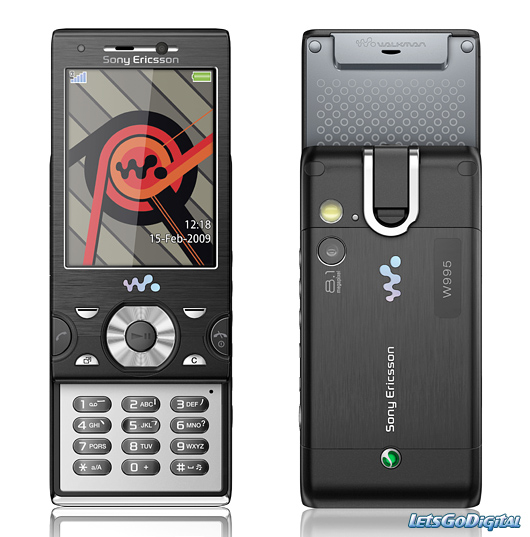
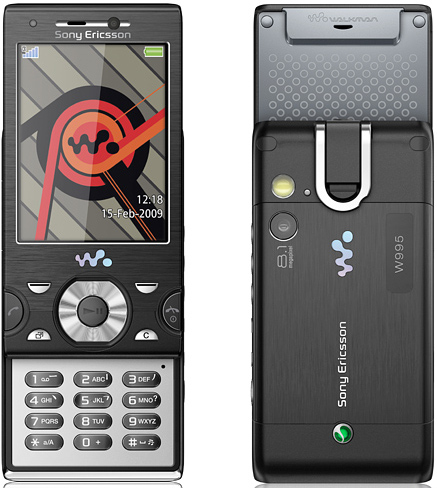
Les produits

diff --git a/css/style.css b/css/style.css
@@ -116,7 +116,7 @@ p {
 	margin:0;
 	padding:10px 15px 5px;
 	width:95%;
-        height:100em;
+    height:50em;
 }
 
 .texte .spec a {
@@ -127,11 +127,12 @@ p {
 }
 
 .texte img {
-	position: relative;
-	width: 100px;
-	height:100px;
+	position: relative;	
+	/* 450*859*/
+	width: 95px; 
+	height:180px;
 	float: left;
-        display: block;
+    display: block;
 }
 
 .texte form {
@@ -204,6 +205,27 @@ p {
 /*********************************************/
 /*********************************************/
 
+div#col_gauche {
+	float: left;
+    width: 10%;
+    background: #F5F5DC ;
+}
+
+div#col_prod {
+	float:right;
+	width: 88%;
+}
+
+div.col_img {
+	float: left;
+	width: 15%;
+}
+
+div.col_desc {
+	float: right;
+	width: 80%;
+}
+
 #lean_overlay {
     position: fixed;
     z-index:100;
@@ -224,6 +246,7 @@ li, ol {
         float: left;
         margin: 0;
         padding: 0;
+        width:18%;
 }
 
 ol li {
@@ -231,22 +254,29 @@ ol li {
 	margin: 0em 0em 0em 0em;
 	line-height: 1.5em;
 	margin-top: 20px;
-        /* Bordures arrondies dans les coins */
 }
 
 ol li ol {
 	width: 100%;
-	/*height: 7em;*/
 	font-size: 0.8em;
 	border: none;
 	margin: 0;
 }
 
-input.btn_voir_prod input.btn_ajout_prod {
+ol li ol p {
+	font-weight: bold;
+	
+	width:100em;
+	float:center;
+}
+
+button.btn_voir_prod , button.btn_ajout_prod {
 	display: block;
 	padding: 0em 0em 0em 1em;
 	font-size: 1.1em;
 	font-weight: bold;
+	width: 32px;
+	height: 32px;
 }
 
 /*********************************************/

diff --git a/web/js/produits.js b/web/js/produits.js
@@ -1,14 +1,23 @@
 $(document).ready(function(){
   
   $('.img_prod').click(function(){
-      window.open(this.src, this.alt, config='height=400, width=400');
+      window.open(this.src, this.alt, config='height=1000, width=1000');
   })
-  /*
-  $('.img_prod').elevateZoom();
-  */
+
+  $('.col_img > img').elevateZoom();   
+  
   $('.btn_voir_prod').click(function(){
-    var source = $('.img_prod').src;
-    window.open(source, " ", config='height=400, width=400');
+    var path = $(this).attr("data-path");
+    window.open(path, "_newtab", config='height=400, width=400, ');
+  })
+
+  $('select').change(function () {
+    //var str = "";
+    $("select option:selected").each(function () {
+      $("#test").text($(this).val());
+      //str += $(this).val() + " ";
+      //str += $(this).text() + " ";
+    });
   })
   
 })

diff --git a/src/Pweb/AccueilBundle/DataFixtures/ORM/Produits.php b/src/Pweb/AccueilBundle/DataFixtures/ORM/Produits.php
@@ -20,7 +20,7 @@ class Produits extends AbstractFixture implements OrderedFixtureInterface{
       $prod->setDescription("Une des dernières trouvailles de samsungs");
       $prod->setPrix(300);
       $prod->setPoids(132);
-      $prod->setImage("/Pweb/images/samsung-galaxy-s3.jpg");
+      $prod->setImage("/Pweb/images/samsung-galaxy-s3.png");
       
       $cat = $manager->getRepository("PwebAccueilBundle:Categorie")->findOneBy(array('libelleCat' => "smartphone"));
       $marque = $manager->getRepository("PwebAccueilBundle:Marque")->findOneBy(array('libelleMar' => "Samsung"));
@@ -35,7 +35,7 @@ class Produits extends AbstractFixture implements OrderedFixtureInterface{
       $prod->setDescription("Une des dernières trouvailles de sony");
       $prod->setPrix(150);
       $prod->setPoids(104);
-      $prod->setImage("/Pweb/images/sony-ericsson-w995.jpg");
+      $prod->setImage("/Pweb/images/sony-ericsson-w995-black.png");
       
       $cat = $manager->getRepository("PwebAccueilBundle:Categorie")->findOneBy(array('libelleCat' => "portable"));
       $marque = $manager->getRepository("PwebAccueilBundle:Marque")->findOneBy(array('libelleMar' => "Sony Ericsson"));
@@ -50,7 +50,7 @@ class Produits extends AbstractFixture implements OrderedFixtureInterface{
       $prod->setDescription("Une des dernières trouvailles de microsoft");
       $prod->setPrix(250);
       $prod->setPoids(185);
-      $prod->setImage("/Pweb/images/nokia-lumia-920-yellow.jpg");
+      $prod->setImage("/Pweb/images/nokia-lumia-920-yellow.png");
       
       $cat = $manager->getRepository("PwebAccueilBundle:Categorie")->findOneBy(array('libelleCat' => "smartphone"));
       $marque = $manager->getRepository("PwebAccueilBundle:Marque")->findOneBy(array('libelleMar' => "Nokia"));
@@ -65,7 +65,7 @@ class Produits extends AbstractFixture implements OrderedFixtureInterface{
       $prod->setDescription("Une des dernières trouvailles d'Apple");
       $prod->setPrix(500);
       $prod->setPoids(500);
-      $prod->setImage("/Pweb/images/ipad-5.jpg");
+      $prod->setImage("/Pweb/images/ipad-5.png");
       
       $cat = $manager->getRepository("PwebAccueilBundle:Categorie")->findOneBy(array('libelleCat' => "tablette"));
       $marque = $manager->getRepository("PwebAccueilBundle:Marque")->findOneBy(array('libelleMar' => "Apple"));
@@ -73,8 +73,6 @@ class Produits extends AbstractFixture implements OrderedFixtureInterface{
 
       $cat = $manager->getRepository("PwebAccueilBundle:Categorie")->findOneBy(array('libelleCat' => "tablette"));
       $marque = $manager->getRepository("PwebAccueilBundle:Marque")->findOneBy(array('libelleMar' => "Apple"));
-      
-      $prod->setImage($image);
 
       $prod->setCategorie($cat);
       $prod->setMarque($marque);
@@ -86,12 +84,7 @@ class Produits extends AbstractFixture implements OrderedFixtureInterface{
       $prod->setDescription("Une des dernières trouvailles d'HTC");
       $prod->setPrix(300);
       $prod->setPoids(143);
-      $prod->setImage("/Pweb/images/htc-one.jpg");
-
-      $image = new Image();
-      $image->setUrl("/Pweb/images/htc-one.jpg");
-      $image->setAlt("HTC One");
-      $manager->persist($image);
+      $prod->setImage("/Pweb/images/htc-one.png");
 
       $cat = $manager->getRepository("PwebAccueilBundle:Categorie")->findOneBy(array('libelleCat' => "smartphone"));
       $marque = $manager->getRepository("PwebAccueilBundle:Marque")->findOneBy(array('libelleMar' => "HTC"));

diff --git a/src/Pweb/AccueilBundle/Controller/ProduitsController.php b/src/Pweb/AccueilBundle/Controller/ProduitsController.php
@@ -8,13 +8,23 @@ class ProduitsController extends Controller
 {
 
 	public function indexAction()
-  {
-    $em = $this->getDoctrine()->getEntityManager();
-    
-    $prod = $em->getRepository("PwebAccueilBundle:Produit")->findAll();
-    //$prod = $em->getRepository("PwebAccueilBundle:Produit")->findOneBy(array('libelleProd' => "Samsung Galaxy S3"));
-    
-    return $this->render('PwebAccueilBundle:Produits:index.html.twig', array('prod' => $prod));
+  	{
+	    $em = $this->getDoctrine()->getEntityManager();
+	    
+	    $prod = $em->getRepository("PwebAccueilBundle:Produit")->findAll();
+	    //$prod = $em->getRepository("PwebAccueilBundle:Produit")->findOneBy(array('libelleProd' => "Samsung Galaxy S3"));
+	    $marques = $em->getRepository('PwebAccueilBundle:Marque')->findBy(array(), array('libelleMar'=>'asc'));
+	    $cat = $em->getRepository("PwebAccueilBundle:Categorie")->findBy(array(), array('libelleCat'=>'asc'));
+
+	    return $this->render('PwebAccueilBundle:Produits:index.html.twig', array('prod' => $prod, 'marque' => $marques, 'cat' => $cat));
+	}
+
+	public function showInfoAction($idProd)
+	{
+		$em = $this->getDoctrine()->getEntityManager();
+		$prod = $em->getRepository("PwebAccueilBundle:Produit")->findOneBy(array('id' => $idProd));
+
+		return $this->render('PwebAccueilBundle:Produits:show.html.twig', array('prod' => $prod));
 	}
 
 }

diff --git a/src/Pweb/AccueilBundle/DataFixtures/ORM/Marques.php b/src/Pweb/AccueilBundle/DataFixtures/ORM/Marques.php
@@ -15,6 +15,10 @@ class Marques extends AbstractFixture implements OrderedFixtureInterface{
       $marque = new Marque();
       $marque->setLibelleMar("Samsung");
       $manager->persist($marque);
+
+      $marque = new Marque();
+      $marque->setLibelleMar("");
+      $manager->persist($marque);
       
       $marque = new Marque();
       $marque->setLibelleMar("HTC");

diff --git a/src/Pweb/AccueilBundle/DataFixtures/ORM/Categories.php b/src/Pweb/AccueilBundle/DataFixtures/ORM/Categories.php
@@ -23,6 +23,10 @@ class Categories extends AbstractFixture implements OrderedFixtureInterface{
       $cat = new Categorie();
       $cat->setLibelleCat("tablette");
       $manager->persist($cat);
+
+      $cat = new Categorie();
+      $cat->setLibelleCat("accessoire");
+      $manager->persist($cat);
       
       $manager->flush();
 
